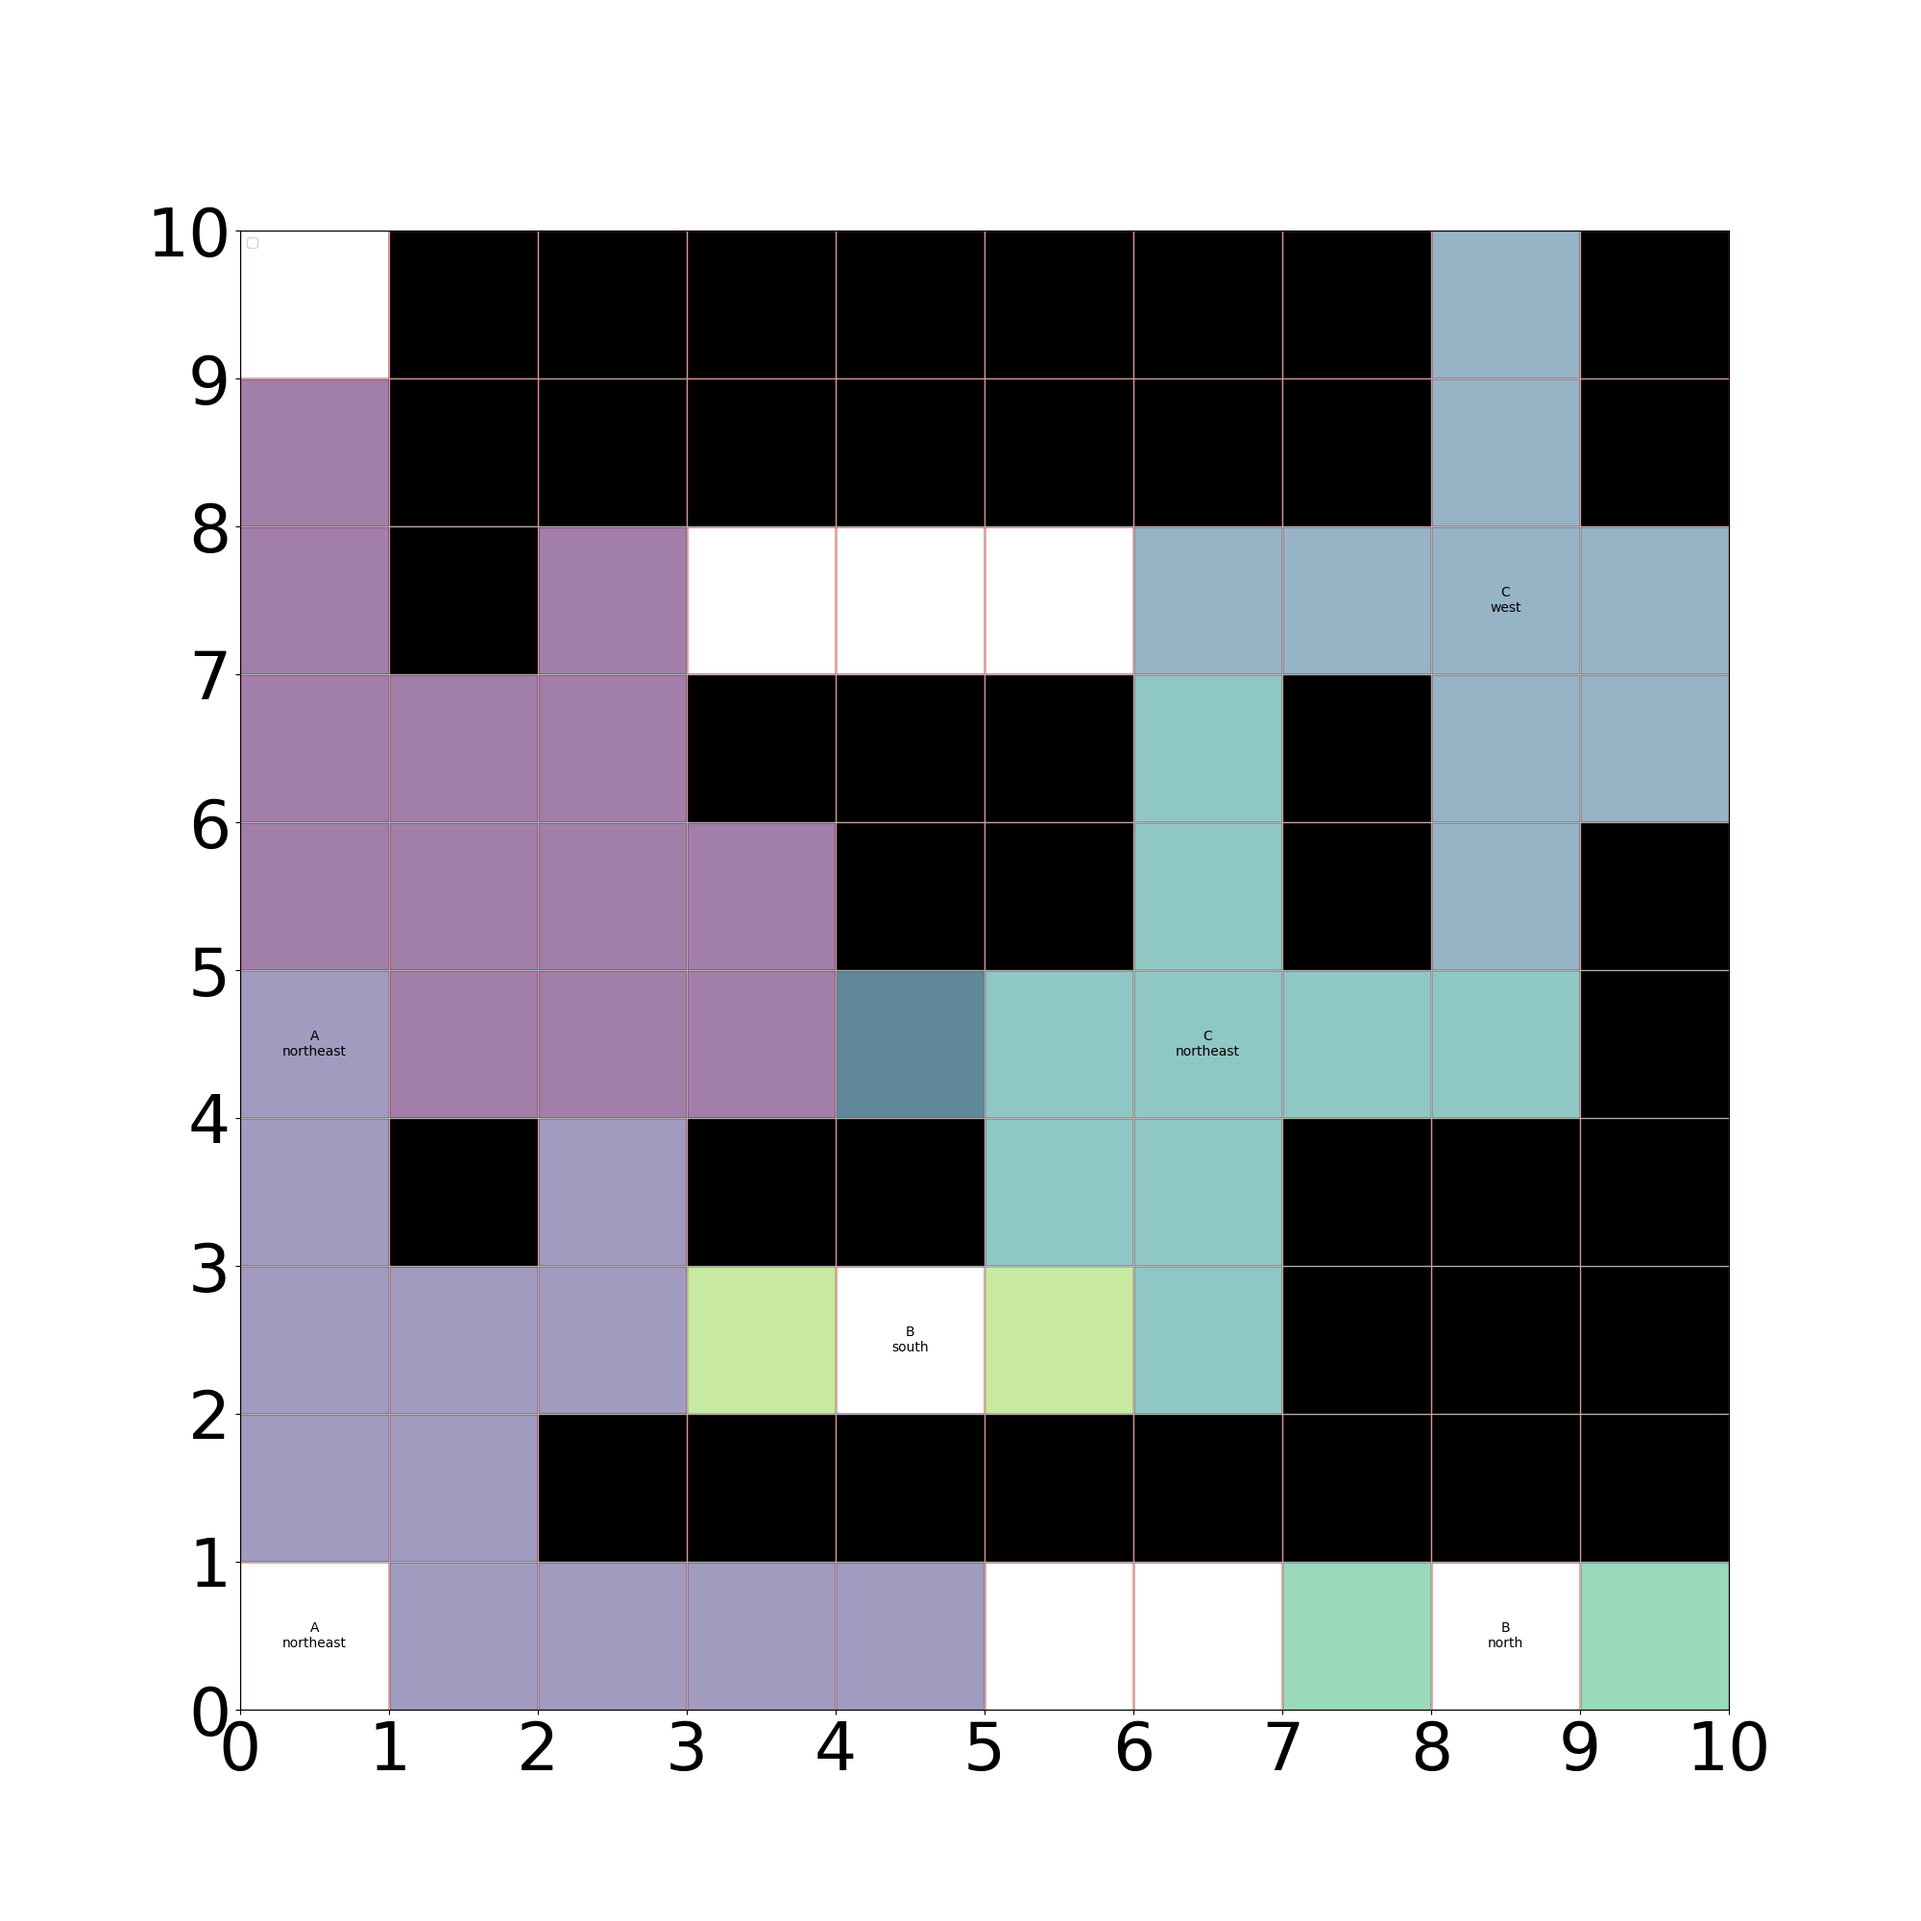
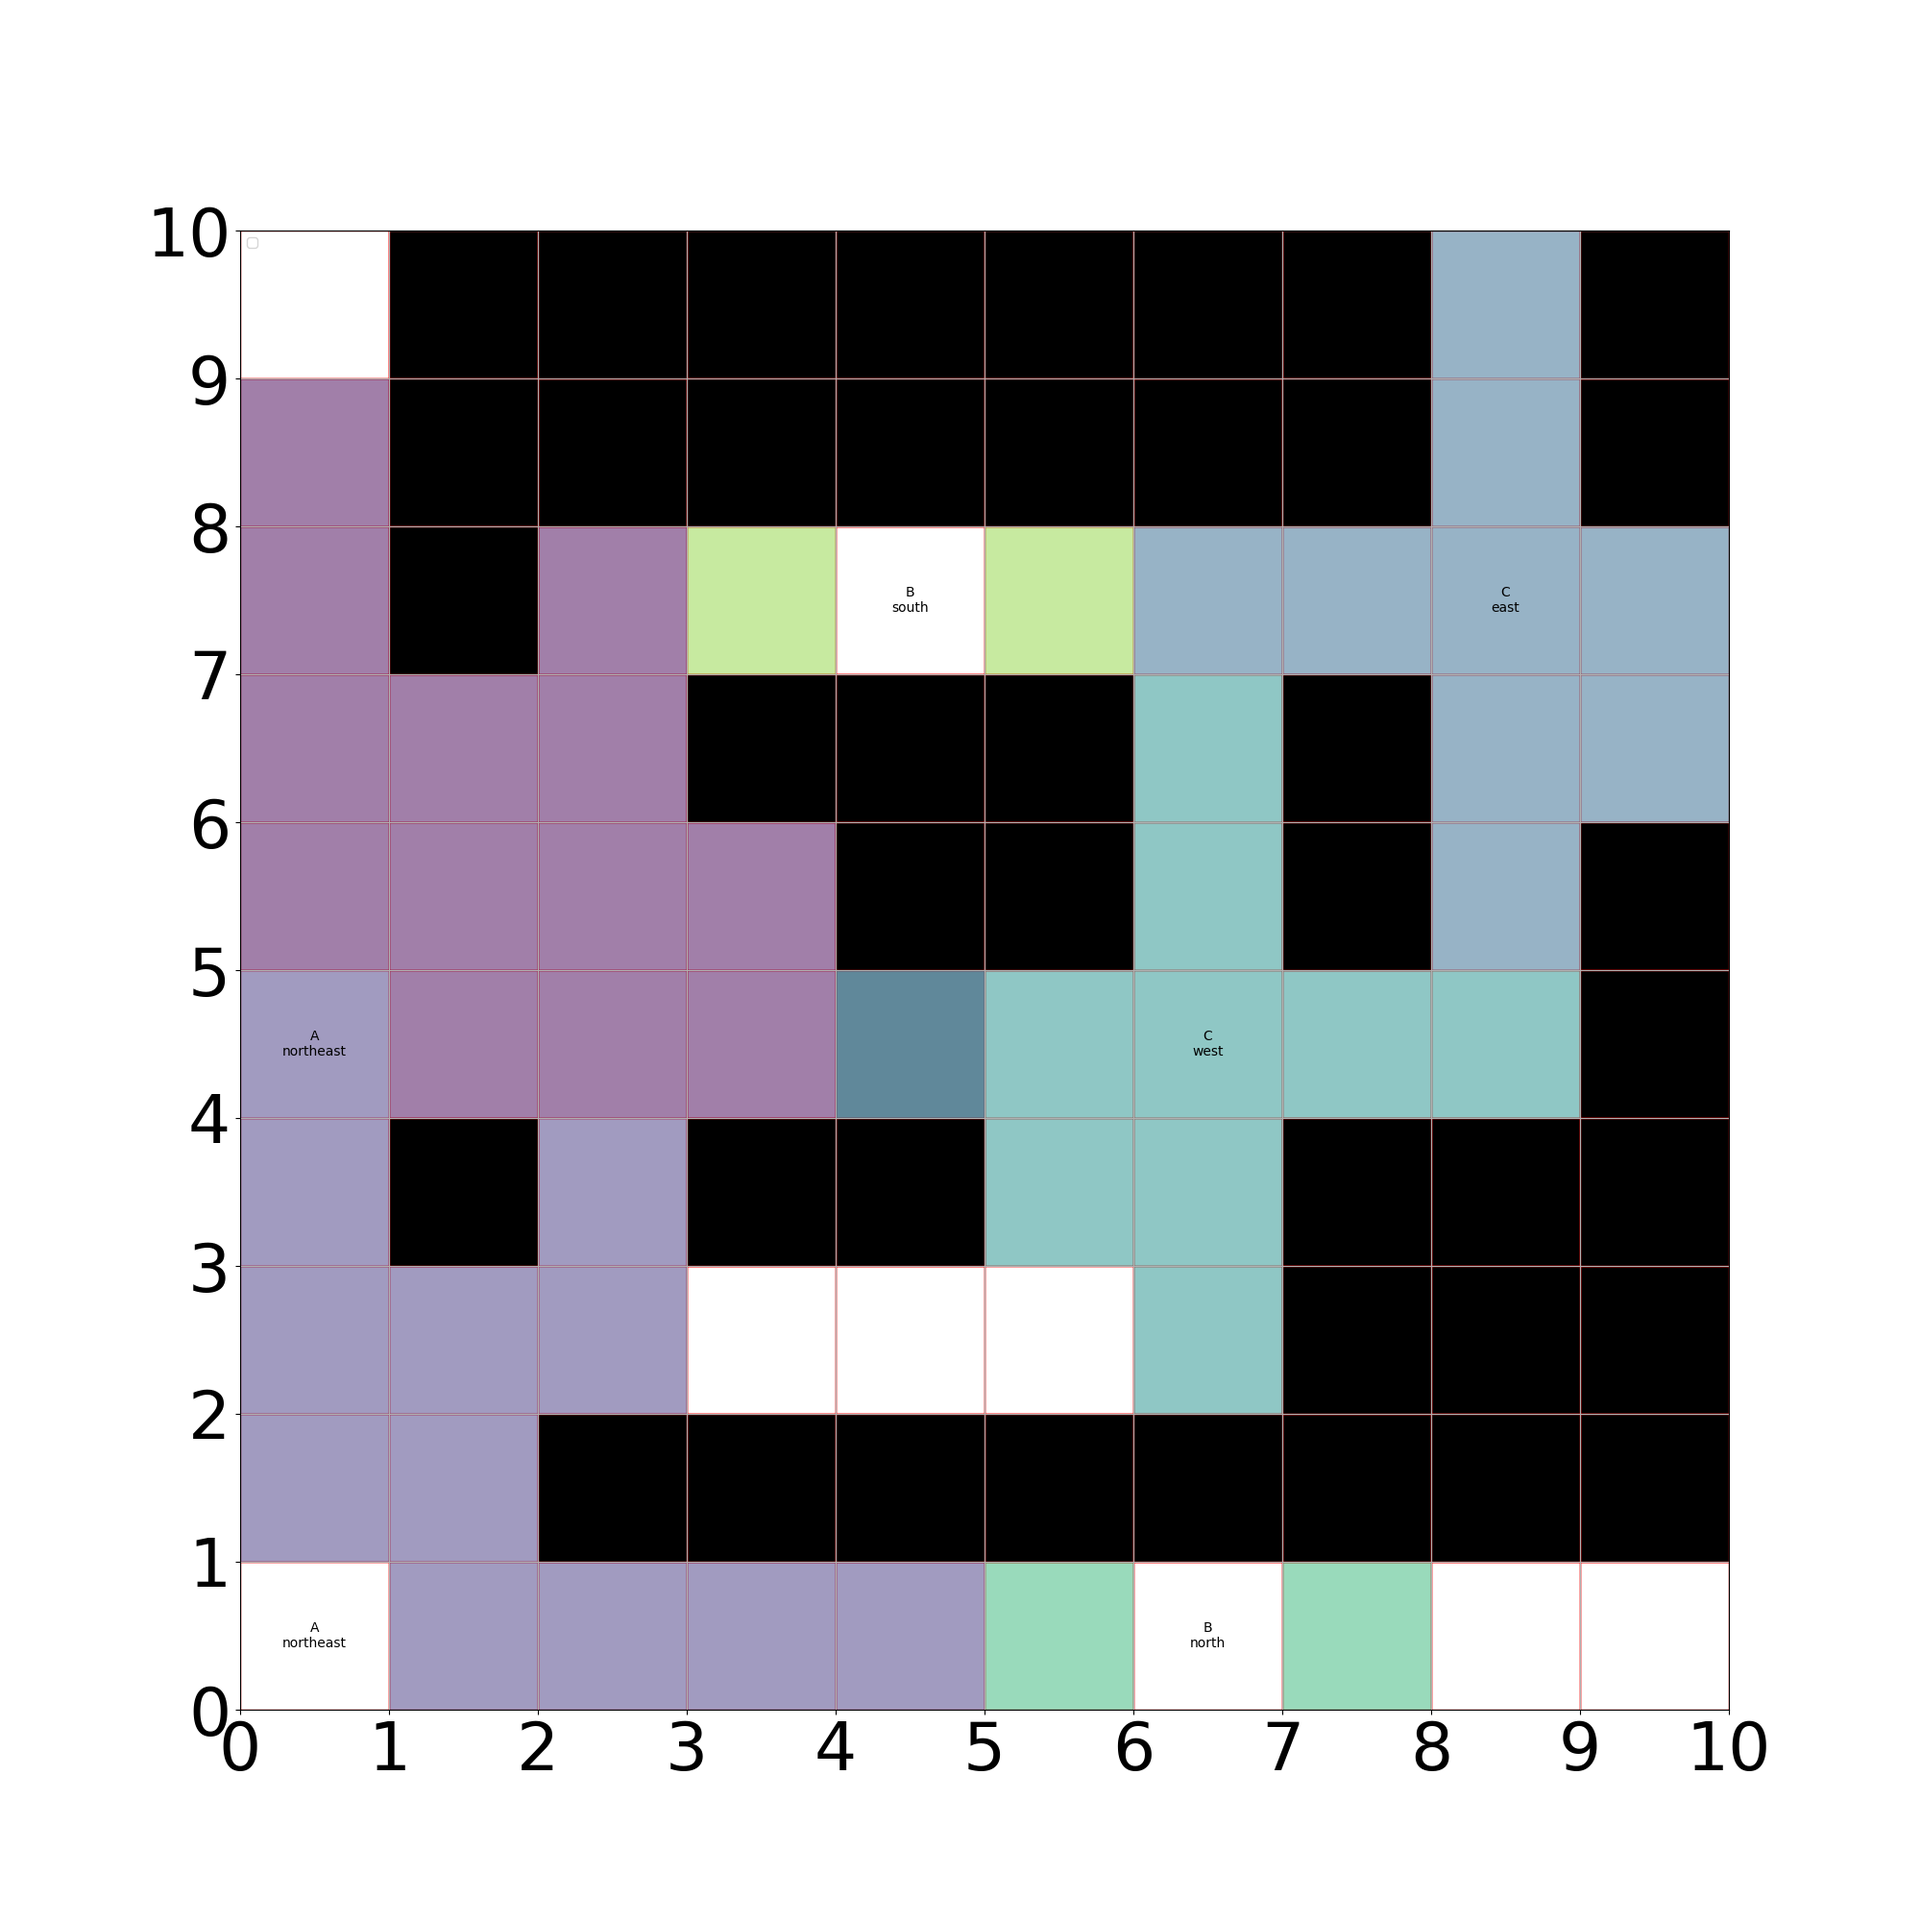
fix

diff --git a/camera.py b/camera.py
@@ -137,29 +137,43 @@ def supercover_line(x0, y0, x1, y1):
     x = x0
     y = y0
     dx = dx / num_steps_x if num_steps_x != 0 else 0
-    dy = dy / num_steps_x if num_steps_x != 0 else 0
-    for i in range(num_steps_x + 1):
+    dy = dy / num_steps_x if num_steps_x != 0 else num_steps_y
+    # if (x0, y0, x1, y1) == (3, 7, 2, 4):
+    #     import pdb; pdb.set_trace()
+    for i in range(2 * num_steps_x + 1):
         if i == 0:
-            points.append((int(round(x)), int(round(y))))
-            points.append((int(round(x1)), int(round(y1))))
+            points.append((x, y))
+            points.append((x1, y1))
             x += 0.5 * dx
             y += 0.5 * dy       
         if i > 0:
             if y - int(y) != 0.5:
-                points.append((int(round(x)), int(round(y))))
+                if dx < 0:
+                    points.append((math.floor(x), round(y)))
+                else:
+                    points.append((math.ceil(x), round(y)))
             elif x - int(x) == 0 and y - int(y) == 0:
                 points.append((int(round(x)), int(round(y))))
             x += 0.5 * dx
             y += 0.5 * dy
-    dx = dx / num_steps_y if num_steps_y != 0 else 0
+    dx = x1 - x0
+    dy = y1 - y0
+    x = x0
+    y = y0
+    dx = dx / num_steps_y if num_steps_y != 0 else num_steps_x
     dy = dy / num_steps_y if num_steps_y != 0 else 0
-    for i in range(num_steps_y + 1):
+    # if (x0, y0, x1, y1) == (3, 7, 2, 4):
+    #     import pdb; pdb.set_trace()
+    for i in range(2 * num_steps_y + 1):
         if i == 0:
             x += 0.5 * dx
             y += 0.5 * dy
         if i > 0:
             if x - int(x) != 0.5:
-                points.append((int(round(x)), int(round(y))))
+                if dy < 0:
+                    points.append((round(x), math.floor(y)))
+                else:
+                    points.append((round(x), math.ceil(y)))
             x += 0.5 * dx
             y += 0.5 * dy
 
@@ -330,5 +344,10 @@ def main():
     obstacles = {(1, 3), (1, 7), (1, 8), (1, 9), (2, 1), (2, 8), (2, 9), (3, 1), (3, 3), (3, 6), (3, 8), (3, 9), (4, 1), (4, 3), (4, 5), (4, 6), (4, 8), (4, 9), (5, 1), (5, 5), (5, 6), (5, 8), (5, 9), (6, 1), (6, 8), (6, 9), (7, 1), (7, 2), (7, 3), (7, 5), (7, 6), (7, 8), (7, 9), (8, 1), (8, 2), (8, 3), (9, 1), (9, 2), (9, 3), (9, 4), (9, 5), (9, 8), (9, 9)}
     coverage = compute_coverage(positions, directions, grid_size, camera_distance, obstacles, camera_angle)
     calculate(positions, directions, coverage, camera_types={"A": 33,"B": 12, "C": 30, "D": 21}, grid_size=grid_size, budget=budget, obstacles=obstacles)
+    pos, cam_type, direction = (3, 7), "A", "southwest"
+    import pdb; pdb.set_trace()
+    visualize_camera_coverage_by_x(grid_size, coverage, pos, cam_type, direction, obstacles)
+
+
 if __name__ == "__main__":
     main()
